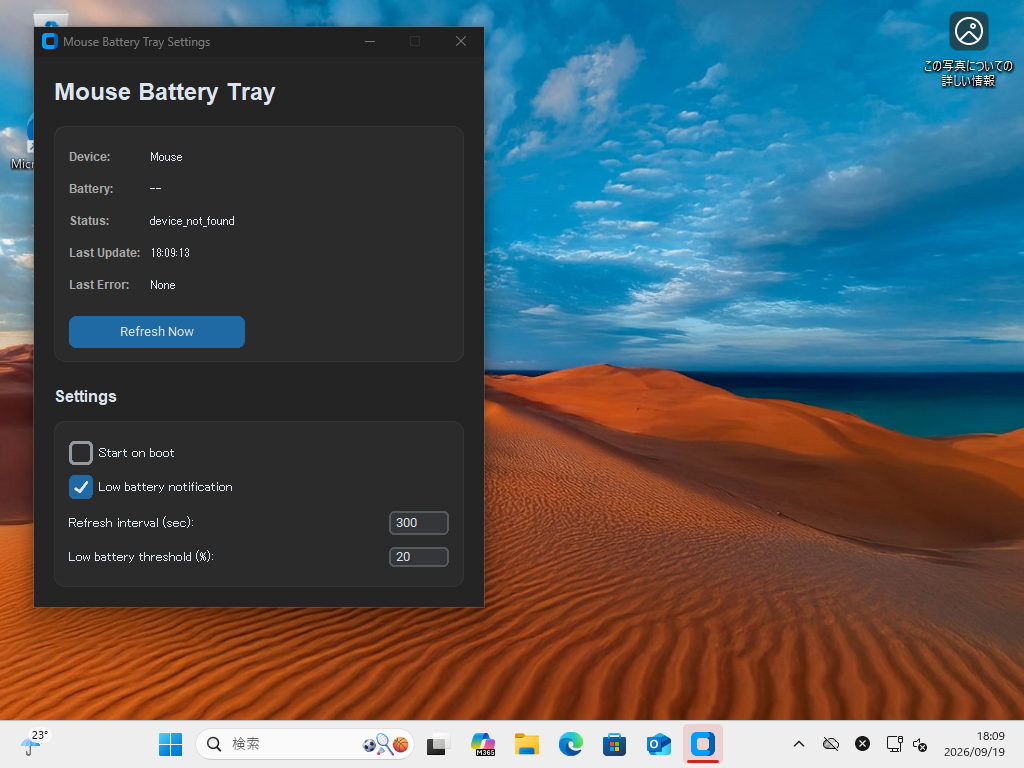
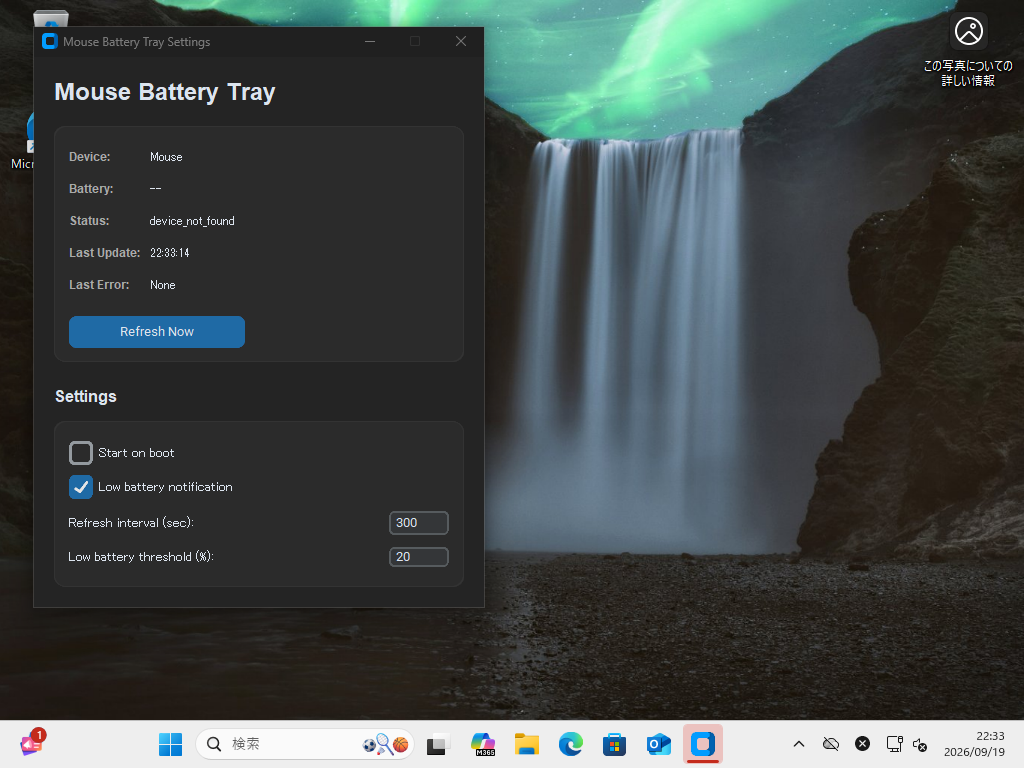
Update GUI evidence to final main acceptance

diff --git a/docs/verification/2026-09-19-hyperv-gui-ci.md b/docs/verification/2026-09-19-hyperv-gui-ci.md
@@ -5,17 +5,23 @@ This acceptance run proves the packaged application can start and present its Se
 ## Environment
 
 - Controller repository: `misaka310/132_hyperv-gui-ci-runner`
+- Controller branch: `main`
 - Isolated guest: `GUI-CI-01`
 - Clean checkpoint: `gui-clean`
-- Target ref: `feature/mouse-battery-tray-generic`
-- Target commit: `be92837ea4d9fa36cef30343fb25e35f6b58d0fb`
-- Acceptance run: `35433576339`
+- Target repository: `misaka310/mouse-battery-tray`
+- Target ref: `main`
+- Target commit: `247a238a1e7a091545425f83a58238fe7eaf2d14`
+- Acceptance run: `35445742282`
 
 ## Result
 
-The GUI target returned `PASS`.
+The complete workflow returned `success`:
 
-Verified conditions:
+- `start-vm`: `success`
+- `gui-test`: `success`
+- `stop-vm`: `success`
+
+Verified target conditions:
 
 - packaged EXE smoke test exit code: `0`
 - Settings window visible: `true`
@@ -23,7 +29,7 @@ Verified conditions:
 - duplicate launch exited: `true`
 - resulting process count: `1`
 - mouse/keyboard input injection used: `false`
-- screenshot captured from the guest desktop
+- screenshot captured from the isolated guest desktop
 - cleanup result: `PASS`
 - forced VM shutdown required: `false`
 - final restore returned the guest to `gui-clean`
@@ -31,16 +37,26 @@ Verified conditions:
 Packaged executable SHA-256:
 
 ```text
[2 lines of base64/hex data omitted]
 ```
 
 Screenshot SHA-256:
 
 ```text
[2 lines of base64/hex data omitted]
 ```
 
-The screenshot committed as `docs/images/settings-vm.png` is the artifact produced by this run.
+The screenshot committed as `docs/images/settings-vm.png` is the artifact produced by this final `main` acceptance run.
+
+## Cleanup diagnostic
+
+The cleanup contract returned `PASS` and did not require a forced shutdown. Its bounded host-memory recovery probe recorded a diagnostic warning because commit headroom had not returned within the configured tolerance before the deadline:
+
+- free physical memory: `41,441 MB`
+- commit headroom: `52,647 MB`
+- `recovery.healthy`: `false`
+
+The 132 controller intentionally treats this recovery shortfall as a diagnostic warning rather than a VM-cleanup failure. Start admission remains based on the current free-memory and commit-headroom checks, and the lease was removed after cleanup.
 
 ## Safety boundary
 
